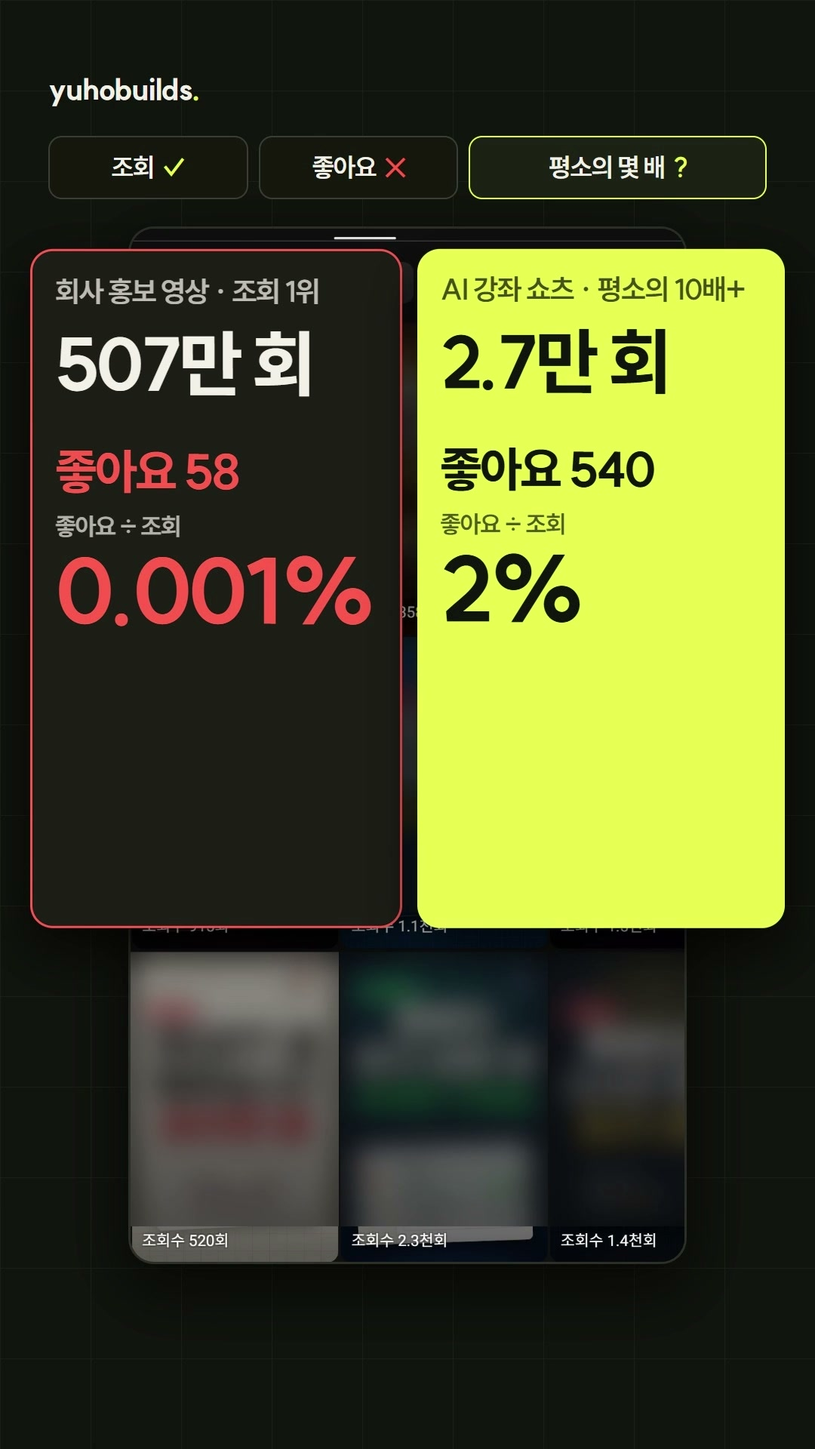
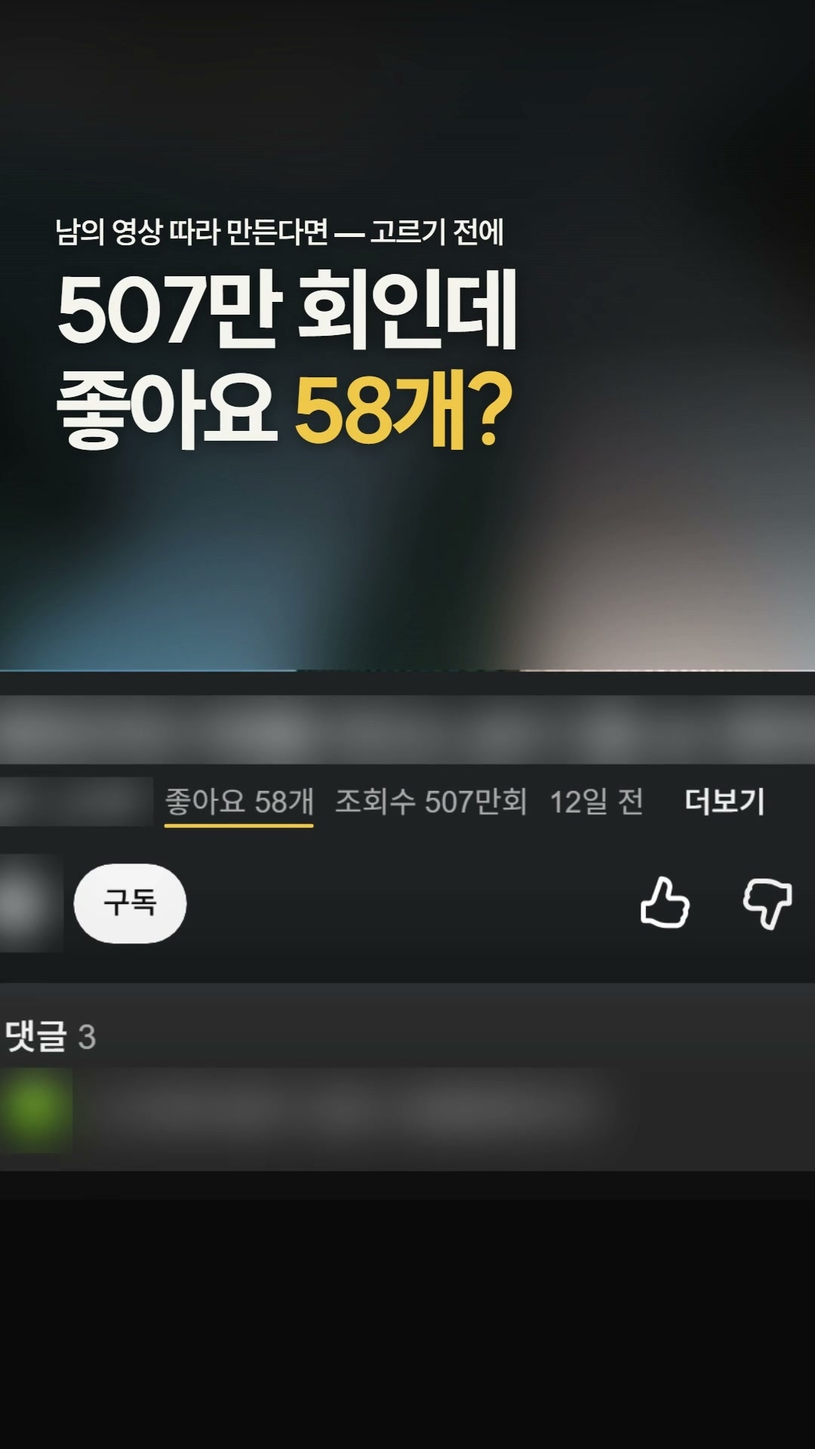
docs(Y30 다시 만들기 · 11-03 · 유호님 「이어서 해」): C 얼굴 진행컷 셋(Flow 72크레딧, 이마 주름 없음) · 화면 결(실제 화면 숫자 줄 · 빗금 막대 · 곱절 눈금 편차 점 · 버터 한 곳) · 끝 4초 저장할 한 장(튄 영상 고르는 3단계, 할 일 | 이 편에서) — 말 · 숫자 · 실제 화면 · 원본 뼈대는 그대로, 범수 11-02 줄 재사용. 나란히 다섯 항목 맞음(박자 75%) · 올리기 전 검사 고칠 것 0. 시험 v2 · v5 이해 4 · 3 · 4 · 저장 · 지난 편 다름, 재미 · 볼 이유

diff --git a/docs/마케팅/yuhobuilds_조회1위광고_20261102/기획.md b/docs/마케팅/yuhobuilds_조회1위광고_20261102/기획.md
@@ -1,61 +1,68 @@
-기획 · yuhobuilds · 인스타 @yuhobuilds · 유튜브 @yuhobuilds · X · 링크드인 · 스레드 · Y30 · 만든 날 11-02 · 슬롯 11-08(토) 21:00
+기획 · yuhobuilds · 인스타 @yuhobuilds · 유튜브 @yuhobuilds · X · 링크드인 · 스레드 · Y30 · 만든 날 11-02 · 다시 만든 날 11-03 · 슬롯 11-08(토) 21:00
 
-> **진행자 형식(만족 사례 S42) 첫 편.** 유호님 11-02 「지금 방식으로 유호빌드 컨텐츠 하나 만들어줄래」 — 손 세션 「yuhoubuilds 제작방식 검수」가 만든다. 얼굴은 11-01 고른 6:4 얼굴(Flow Omni 1.1 Flash 진행컷 셋), 목소리는 범수(상업용 Chris 길을 정할 때까지 — 장부 머리말 「얼굴 · 목소리」), 합성은 Remotion. 제작 폴더(얼굴 · 미디어 · 스크립트)는 git 밖 `synk-vendor/yuhobuilds-y30-20261102/`.
+> **11-03 다시 만듦(C 얼굴 · 화면 결 · 저장할 한 장).** 11-02 판(진행자 형식 첫 편)은 그 뒤 정해진 기준 셋에 어긋났다 — ① 얼굴이 11-01 6:4(눈가림 얼굴 시험 꼴찌, 11-02 밤 C 짧은 머리로 확정 · 11-03 이마 주름 없이) ② 화면이 11-03 「촌스럽다 · 미학을 고려 안 한 느낌」으로 금지된 결(라임 바탕에 오려 붙인 흉상, 기울인 폰 · 도장 · 칩, 카드뉴스 틀, 색이 켜지는 탭) ③ 끝이 질문 + 칩 둘이라 「저장할 한 장」이 아님. 유호님 11-03 「이어서 해」(앞 세션의 「Y30을 새 기준으로 다시 만들기」 권고). 내용 · 숫자 · 실제 화면(가린 판) · Fable 사실 검수를 거친 말 · 원본 뼈대 · 가져갈 요청문은 그대로 두고, 진행컷 · 화면 · 끝만 새로 했다. 제작 폴더는 git 밖 `synk-vendor/yuhobuilds-y30c-20261103/`(옛 판 `yuhobuilds-y30-20261102/`).
 
 ## 열 칸
 
 | 칸 | 내용 |
 |---|---|
-| **무엇으로 이기나** | **한 장면의 임팩트** — 조회 507만 회 영상의 좋아요가 58개(실제 모바일 화면 숫자 줄을 크게), 그리고 조회 2.7만 회 영상은 좋아요 540개. 큰 숫자가 큰 반응이 아니라는 게 한 화면에서 보인다. 핵심 칸 시안: `.tmp/수요스캔/2026-11-01/시안/Y30_핵심칸.jpg`(11-01 haiku 「높은 조회수는 광고로 키운 것」 — 같은 일). |
+| **무엇으로 이기나** | **한 장면의 임팩트** — 조회 507만 회 영상의 좋아요가 58개(실제 휴대폰 화면 숫자 줄을 0초부터 크게), 그리고 끝의 저장할 한 장(튄 영상 고르는 3단계 + 이 편에서 잰 값). 큰 숫자가 큰 반응이 아니라는 게 한 화면에서 보인다. |
 | 누구에게 | 남의 잘된 짧은 영상을 따라 만들려는 1인 사업자 · 크리에이터 입문자(AI로 콘텐츠를 만드는 사람). |
-| 남는 것 | 두 기준 — 「그 채널 평소의 몇 배인가」 · 「좋아요 ÷ 조회」. 손으로 재는 법과 코딩 AI에 붙일 요청문은 캡션 · synk.im/prompts. |
-| 근거 | 이 계정 최근 편 72시간(없으면 24시간): 「세션 공유」(10-17) 4,049회 · 저장 40 · 공유 11 · 팔로우 13 — 실화 + 가져갈 도구가 먹힘 / 「없는 후기 한 줄」(10-28) 24시간 1,187회 · 3초 유지 40.7% · 좋아요 0 / 「세션공유 4기가」(10-22) 129회 · 3초 유지 8.3% — 남이 모르는 내부 도구 말은 안 먹힘. **B** 원본 oxRD_YX2vEQ(AI 시스메이커 「클로드가 제 유튜브 채널을 통째로 돌립니다」, 10-18, 11-02 화면 2.7만 회 · 좋아요 540 · 댓글 600, 그 채널 최근 30편 중앙값 약 2,150회 → 평소의 11~13배) — 11-01에 읽은 댓글 위 40개가 모두 키워드 「유튜브」(가져갈 것을 바람). 같은 꼴 jKkrBdlpFgE(5.2천 · 4.6배). **실화** 장부 실화 창고 「10-29 · 11-01」 줄 — 조회순 수집 맨 위가 기업 홍보 영상(10-29 320만 · 좋아요 55, 11-02 다시 재니 507만 · 58), 「좋아요 ÷ 조회 0.3% 밑은 뺀다」 · 「그 채널 평소의 3배」 두 기준을 도구에 넣었다. |
-| 재미가 나는 초와 장면 | 원본: 0초 큰 약속(「클로드가 내 채널을 통째로 돌린다」 + 「지금 보시는 이 영상도요」), 15.4초 반전 「근데 제일 미친 건」(어두운 화면), 24.3초 키워드 댓글 카드. 우리: 0초 「507만 회인데 좋아요 58개?」, 7.1초 빨간 「58개」가 꽂힘(쿵), 10.05초 「광고 노출?」 도장, 15.4초 반전 뒤 실제 화면 「좋아요 540개 · 조회수 2.7만회」. |
-| 첫 2초 | 진행자 얼굴(아래 절반) 위 큰 글 「507만 회인데 / 좋아요 58개?」 + 말 「요즘 뜨는 영상을 찾아서, 따라 만들려고 했거든요」. |
-| 형식 | 원본 https://www.youtube.com/shorts/oxRD_YX2vEQ · 같은분야 · 위 탭이 하나씩 켜지는 단계 화면 → 어두운 반전 → 정리 카드 → 끝 카드. |
-| 댓글 놀이 | 없음 — 가져갈 두 기준은 영상 끝 카드와 캡션에 다 있다(장부 머리말 10-31 ④). 「여러분은 뭘로 고르세요?」는 약속하지 않는 물음으로만. |
-| 길이 | 27.4초(원본 28.5초의 96%). |
-| 함정 | ① 광고 집행을 확인한 자료는 없다 — 「광고로 노출된 조회 같아요」 · 화면 「광고 노출?」로 추정임을 남긴다(11-02 Fable 사실 검수) ② 회사 이름 · 제목 · 영상 그림 · 남의 댓글은 흐렸다(`synk-vendor/…/screens.py`), 회사 영상을 비웃지 않는다 ③ 507만은 60초 일반 동영상이라 「쇼츠」라 부르지 않는다 — 대본 · 화면 · 글 모두 「영상」 ④ 평소 조회 목록은 그 채널 최신순 그대로(골라 넣지 않음), 「약 2천 회」는 최근 30편 중앙값 ⑤ 같은 주 synkbrief B23(「~했더니 → 사실 반전 → 기준」)과 끝을 다르게 — 우리는 끝이 진행자가 시청자에게 되묻는 질문 「여러분이 따라 하려던 영상은… 평소의 몇 배였어요?」(v7부터 — 첫 시험에서 「~말고 ~하세요」 꼴이 지난 Y29와 같다고 짚힘). |
+| 남는 것 | **저장할 한 장(끝 4초) — 「튄 영상 고르는 3단계」**: ① 영상 아래에서 조회 · 좋아요 수 적기(이 편 2.7만 · 540) ② 그 채널 최근 30편 조회를 줄 세운 한가운데(중간값)(약 2천) ③ 평소의 3배 넘고 좋아요 ÷ 조회 0.3% 넘으면 따라 할 영상(13배 · 1.9%). 「3배 · 0.3%는 제가 고를 때 쓰는 기준」을 같이 적는다. 코딩 AI에 붙일 요청문은 캡션 · synk.im/prompts. |
+| 근거 | 이 계정 최근 편 72시간(없으면 24시간): 「세션 공유」(10-17) 4,049회 · 저장 40 · 공유 11 · 팔로우 13 — 실화 + 가져갈 도구가 먹힘 / 「없는 후기 한 줄」(10-28) 24시간 1,187회 · 3초 유지 40.7% · 좋아요 0 / 「세션공유 4기가」(10-22) 129회 · 3초 유지 8.3% — 남이 모르는 내부 도구 말은 안 먹힘. **B** 원본 oxRD_YX2vEQ(AI 시스메이커 「클로드가 제 유튜브 채널을 통째로 돌립니다」, 10-18, 11-02 화면 2.7만 회 · 좋아요 540 · 댓글 600, 그 채널 쇼츠 최근 30편 중간값 약 2,150회(11-03 다시 잰 값 1,890) → 평소의 11~15배) — 11-01에 읽은 댓글 위 40개가 모두 키워드 「유튜브」(가져갈 것을 바람). 같은 꼴 jKkrBdlpFgE(5.2천 · 4.6배). **실화** 장부 실화 창고 「10-29 · 11-01」 줄 — 조회순 수집 맨 위가 기업 홍보 영상(10-29 320만 · 좋아요 55, 11-02 다시 재니 507만 · 58), 「좋아요 ÷ 조회 0.3% 밑은 뺀다」 · 「그 채널 평소의 3배」 두 기준을 도구(`tools/수요스캔/뜨는원본.js`)에 넣었다. |
+| 재미가 나는 초와 장면 | 원본: 0초 큰 약속(「클로드가 내 채널을 통째로 돌린다」 + 「지금 보시는 이 영상도요」), 15.4초 반전 「근데 제일 미친 건」(어두운 화면), 24.3초 키워드 댓글 카드. 우리: 0초 실제 화면 숫자 줄 위 「507만 회인데 좋아요 58개?」, 4.4초 숫자 줄로 당김, 6.6초 빗금 막대 — 조회는 끝까지, 좋아요는 선 하나도 안 됨(쿵), 9.8초 「1위를 그대로 따라 했으면, 홍보 영상을 베낄 뻔」, 12초 진행자가 휴대폰을 내려다보다 눈을 듦 → 「진짜 뜬 영상은… 따로」, 16.2초 튄 영상 실제 화면 → 「이 영상이요」에 숫자 줄로 당겨 「좋아요 540개」 밑줄, 24.85초 저장할 한 장. |
+| 첫 2초 | 실제 휴대폰 화면(507만 회 홍보 영상, 회사 이름 · 영상 흐림)의 숫자 줄 「좋아요 58개 조회수 507만회」 + 맨 위 한 줄 「남의 영상 따라 만든다면 — 고르기 전에」 + 큰 글 「507만 회인데 / 좋아요 58개?」. 말은 진행자 첫 줄 「요즘 뜨는 영상을 찾아서,」가 먼저 깔리고 2.1초에 진행자 얼굴. 진행자로 시작하지 않는 것은 결과 먼저(제작절차 「synkbrief · yuhobuilds 편」 2) + 11-09 진행자 편의 첫 무대(진행자 + 위 그늘 글)와 다르게. |
+| 형식 | 원본 https://www.youtube.com/shorts/oxRD_YX2vEQ · 같은분야 · 단계 화면 → 어두운 반전 → 정리 → 끝 장치. |
+| 댓글 놀이 | 없음 — 가져갈 3단계는 영상 끝 한 장과 캡션에 다 있다(장부 머리말 10-31 ④). 「여러분은 뭘로 고르세요?」는 약속하지 않는 물음으로만. |
+| 길이 | 28.9초(원본 28.5초의 101%, 끝 한 장 4.05초). |
+| 함정 | ① 광고 집행을 확인한 자료는 없다 — 말 「광고로 노출된 조회 같아요」로 추정임을 남긴다(11-02 Fable 사실 검수). 근거는 화면에 「튄 영상은 약 52명에 좋아요 1개」로 견줌만(11-03 v5 시험 haiku · GPT 「왜 광고 조회인지」) ② 회사 이름 · 제목 · 영상 그림 · 남의 댓글은 흐렸다(`synk-vendor/yuhobuilds-y30-20261102/screens.py`), 회사 영상을 비웃지 않는다 ③ 507만은 60초 일반 동영상이라 「쇼츠」라 부르지 않는다 — 대본 · 화면 · 글 모두 「영상」 ④ 평소 조회 목록은 그 채널 최신순 그대로(골라 넣지 않음). 보이는 아홉 칸은 막 올린 편이라 대부분 1.5천 밑 — 머리 글 「약 2천 회」 아래에 「최근 30편 조회를 줄 세운 한가운데(중간값)」 · 「그 영상은 빼고 · 위 칸들은 막 올린 편」을 붙였다(11-03 Fable 사실 검수 두 차례 — 첫 차례 「1~2천」 권고는 둘째 차례에 「평소를 낮게 말해 13배를 부풀린다」로 되돌림) ⑤ 1단계 「영상 아래에서」 — 화면은 모바일 웹이라 숫자 줄에 좋아요가 있지만 앱은 👍 옆이라 「숫자 줄」이라 쓰지 않는다(11-03 Fable) ⑥ 같은 주 synkbrief B23(「~했더니 → 사실 반전 → 기준」)과 끝을 다르게 — 우리는 진행자가 되묻는 질문 뒤 저장할 한 장. |
 | **한 문장** | 「조회수 1위 말고, 그 채널 평소보다 튄 영상을 따라 하세요 — 좋아요가 얼마나 붙었는지도 보고」 |
 
 ## 원본 1:1
 
-원본 https://www.youtube.com/shorts/oxRD_YX2vEQ · 28.5초 · 13컷 · 박자 15번 · 갈래 같은분야 — 측정 `.tmp/오마주/yt_oxRD_YX2vEQ`(git 밖). 컷 · 박자는 칸.jpg · 첫3초.jpg로 눈 확정(오마주.json 「확정」). **아르곤 못 받음** — 11-02 17:18 보낸 뒤 영상 권리 동의 창이 떠 도구가 멈춤(유호님 손, 누르지 않음) → Claude 분석.
+원본 https://www.youtube.com/shorts/oxRD_YX2vEQ · 28.5초 · 13컷 · 박자 15번 · 갈래 같은분야 — 측정 `.tmp/오마주/yt_oxRD_YX2vEQ`(git 밖). 컷 · 박자는 칸.jpg · 첫3초.jpg로 눈 확정(오마주.json 「확정」). 아르곤 못 받음(11-02 영상 권리 동의 창) → Claude 분석. **11-03 판 나란히: 길이 101% · 칸 17(컷 12) · 첫 2초 박자 0 · 박자 16번 중 12번이 같은 순서로 0.6초 안(75%) · 뼈대 자리 — 다섯 항목 모두 맞음.**
 
-| 칸 | 원본 초 | 원본에서 이 칸이 하는 일(우리 말로) | 우리 화면 | 우리 말 |
+| 칸 | 원본 초 | 원본에서 이 칸이 하는 일(우리 말로) | 우리 화면(11-03 판) | 우리 말 |
 |---|---|---|---|---|
-| 1 | 0–2.6 | 큰 약속 글 + 「지금 보시는 이 영상」 — 끝까지 볼 이유 | 진행자 얼굴 + 큰 글 「507만 회인데 / 좋아요 58개?」 | 요즘 뜨는 영상을 찾아서, 따라 만들려고 했거든요. |
-| 2–4 | 2.6–7.2 | 하나가 아니라 팀 — 판을 펼침 | 위 탭 「조회 ✓」 → KT 영상 실제 휴대폰 화면 한 컷(회사 이름 · 그림 흐림) → 숫자 줄을 2.15배로 키운 띠, 「507만 회」 세기 | 조회순으로 모아 보니, 1위가 507만 회. |
-| 5–7 | 7.2–10.4 | 단계 하나씩(탭이 켜짐) | 탭 「좋아요 ✕」 · 조회 막대 vs 좋아요 실선 · 빨간 「58개」 쿵 · 숫자 줄 띠(좋아요 밑줄) | 그런데 좋아요는, 58개. |
-| 8–9 | 10.4–15.4 | 단계 계속 | 「좋아요 ÷ 조회 0.001% · 회사 홍보 영상」 카드 + 「광고 노출?」 도장 | 회사 홍보 영상이에요. 이 비율이면, 광고로 노출된 조회 같아요. |
-| 10–11 | 15.4–17.7 | 반전 — 어두운 화면 「근데 제일 미친 건」 | (우리는 12.6초) 검은 화면 · 진행자 몸을 앞으로 · 큰 노란 글 「진짜는」 → 14.48초 「따로.」에서 바탕이 노랑으로 뒤집힘(원본 반전 자리) | 진짜 뜬 영상은… 따로 있었어요. |
-| 12–13 | 17.7–22.1 | 반전의 내용(실제 화면) | 탭 「평소의 몇 배 ?」 · 그 채널 쇼츠 목록 실제 화면(썸네일 흐림, 조회만) 「이 채널 평소 약 2천 회」 → 튄 편 실제 화면 · 숫자 줄 띠 「좋아요 540개 · 조회수 2.7만회」 · 「평소의 10배+」 | 평소보다 열 배 넘게 뛴, 이 영상이요. |
-| 14 | 22.1–24.3 | 정리본 | 「이제 두 개만.」 + 카드 ① 그 채널 평소의 몇 배? ② 좋아요 ÷ 조회 | 그래서 이제 두 개만 봐요. 그 채널 평소의 몇 배인지, 좋아요가 얼마나 붙었는지. |
-| 15–16 | 24.3–28.5 | 끝 장치(좋아요 · 댓글 키워드) | (우리는 23.4초) 진행자 얼굴 + 「평소의 몇 배였어요?」, 25.3초에 두 기준 칩이 큰 글 자리로 | 여러분이 따라 하려던 영상은… 평소의 몇 배였어요? |
+| 1 | 0–2.6 | 큰 약속 글 + 「지금 보시는 이 영상」 — 끝까지 볼 이유 | 실제 화면 숫자 줄 + 「남의 영상 따라 만든다면 — 고르기 전에」 + 「507만 회인데 / 좋아요 58개?」(58개 버터) → 2.1초 진행자 「뜨는 영상, / 따라 만들려다」 | 요즘 뜨는 영상을 찾아서, 따라 만들려고 했거든요. |
+| 2–4 | 2.6–7.2 | 판을 펼침 | 3초 같은 실제 화면 「조회순 1위, / 507만 회」 → 4.4초 숫자 줄로 당김 → 5.7초 빗금 막대(조회 507만 끝까지 · 좋아요 58은 선 하나) 「그런데 좋아요는 / 58개」 | 조회순으로 모아 보니, 1위가 507만 회. 그런데 좋아요는, 58개. |
+| 5–9 | 7.2–15.4 | 단계 하나씩 | 7.56초 흐린 화면 위 「회사 / 홍보 영상」 · 좋아요 ÷ 조회 0.001% · 약 9만 명이 봐야 좋아요 1개 · 튄 영상은 약 52명에 1개 → 9.76초 「1위를 그대로 / 따라 했으면, / 홍보 영상을 / 베낄 뻔」(전에 손해 한 줄) | 회사 홍보 영상이에요. 이 비율이면, 광고로 노출된 조회 같아요. |
+| 10–11 | 15.4–17.7 | 반전 — 어두운 화면 「근데 제일 미친 건」 | (우리는 12초) 진행자를 가까이 — 휴대폰을 내려다보다 멈추고 눈을 듦, 「진짜 뜬 영상은,」 → 「따로 있었다」 | 진짜 뜬 영상은… 따로 있었어요. |
+| 12–13 | 17.7–22.1 | 반전의 내용(실제 화면) | 15.3초 그 채널 쇼츠 목록 실제 화면 「이 채널 평소, / 약 2천 회」(최근 30편 중간값, 그 영상은 빼고) → 16.2초 튄 영상 실제 화면(제목 · 채널 출처 그대로) 「2천 회에서 / 2.7만 회로」 → 「이 영상이요」에 숫자 줄로 당겨 「좋아요 540개」 밑줄 | 평소보다 열 배 넘게 뛴, 이 영상이요. |
+| 14 | 22.1–24.3 | 정리본 | 17.6초 「이제 / 두 개만 본다」 + 조회 1위 507만 회 · 좋아요 58 / 튄 영상 2.7만 회 · 좋아요 540 나란히 → 19초 「평소의 몇 배, / 좋아요 몇 %」 편차 점(평소 → 약 13배, 곱절 눈금) · 빗금 막대(1.9% · 0.001%) | 그래서 이제 두 개만 봐요. 그 채널 평소의 몇 배인지, 좋아요가 얼마나 붙었는지. |
+| 15–16 | 24.3–28.5 | 끝 장치(좋아요 · 댓글 키워드) | 22초 진행자(조금 가까이) 「따라 하려던 영상, / 평소의 몇 배?」 → 24.85초 저장할 한 장 — 흐린 튄 영상 화면 위 「저장해 두고, 따라 하기 전에 / 튄 영상 고르는 3단계」, 할 일 | 이 편에서 두 칸 표 | 여러분이 따라 하려던 영상은, 평소의 몇 배였어요? |
 
-**다르게(뼈대 밖 우리 판단):** 원본에는 얼굴이 없다 — 진행자 형식(S42)대로 처음 · 반전 · 끝 세 줄을 유호 진행자가 말하고, 나머지는 실제 화면 + 모션(장부 머리말 「진행자 형식과 오마주 · 실제 화면 합치기」). 반전은 원본 15.4초보다 이른 12.6초(앞 단계가 셋이라 원본의 다섯 단계보다 짧음) — 원본 15.4초 자리에서는 실제 화면으로 바뀐다.
+**다르게(뼈대 밖 우리 판단):** 원본에는 얼굴이 없다 — 진행자 형식대로 처음 · 반전 · 끝 세 줄을 유호 진행자가 말하고, 나머지는 실제 화면 + 모션(장부 머리말 「진행자 형식과 오마주 · 실제 화면 합치기」). 반전은 원본 15.4초보다 이른 12초(앞 단계가 셋이라) — 원본 15.4초 자리에서는 실제 화면으로 바뀐다. 끝 장치는 키워드 댓글 대신 저장할 한 장.
 
 ## 만들기 기록
 
-- **목소리:** 범수 두 덩이(a 108자 · b 108자) 한 번에 + 반전 얼굴 줄 c(20자, 진행컷이 「영상은 … 따로」 사이 1.3초를 쉬어 목소리에도 쉼) — 받아쓰기가 원고와 같음. 얼굴 줄 셋(f1 · f5 · f8)은 실제 쉼 자리(소리 크기)에서 잘라 0.3~0.4초 쉼을 넣고 f1만 0.92배.
-- **진행컷:** Flow Omni 1.1 Flash 720p · 8초 · x1 셋(36크레딧, 다시 뽑기 0) — 처음 · 중간 · 끝 얼굴 모두 승인 얼굴과 같음(`flow/source-contact.jpg`), 01은 4.1초 뒤 「만들려고 했거든요」를 되풀이해 그 뒤는 안 씀. Whisper가 첫 낱말을 0초로 잡아(실제 말은 0.16~1.12초 시작) 소리 덩어리로 맞춤 — 말하는 구간 1.12~1.32배, 입 닫힌 쉼만 1.47~2.23배.
-- **인물 분리:** GPU가 다른 세션의 LoRA 학습(3,200단계, 19시 반쯤 끝)으로 차 있어 SAM3 대신 CPU rembg `u2net_human_seg`(앞뒤 프레임 평균)로 첫 렌더 — SAM3 CPU는 프레임당 29초라 못 씀. 세 차례 시험과 마감이 이 분리로 끝나 SAM3로 바꿔 끼우지 않았다(바꾸면 얼굴 가장자리가 달라져 다시 봐야 함) — 다음 편부터는 GPU 차례를 먼저 잡는다.
-- **실제 화면:** ego 캡처가 시간 초과(창 가림)라 헤드리스 크롬 휴대폰 크기(430 · 배율 2.51)로 공개 페이지를 찍음.
-- **음성 · 끝 줄 바꿈(v7):** 첫 시험에서 haiku가 끝 「1등 말고, 튄 걸 따라 하세요」를 지난 Y29 「물건은 AI 말고 사장님이 고르세요」와 같은 「~말고 ~하세요」 꼴로 짚어, 끝을 질문 「여러분이 따라 하려던 영상은… 평소의 몇 배였어요?」로 바꿈(범수 d 30자 · 진행컷 04는 「몇 / 배였어요」 사이에서 쉬어 2.1배로 어긋나 버리고, 「한숨에 · 3초 안에」로 다시 뽑은 05를 씀 — Flow 모두 60크레딧 · 다섯 컷 중 버림 1).
-- **흰 테:** 볼 이유 심사관이 머리 둘레 흰 테(임시 분리 도구의 누끼 자국)를 짚어 알파를 2px 안으로 줄임(`masks_raw`는 남김).
-- **마감:** v11 — 자막을 앱 아래 글자 자리(1428px) 위로(얼굴 장면은 머리 위, 다른 장면은 왼쪽 690px 폭), 얼굴은 470px로 올림, 숫자 띠 1.55배 · 왼쪽 40px(오른쪽 단추 자리 밖). 영상 10Mbps 고정으로 다시 담고 `tools/음량마감.mjs`로 −14.5 LUFS · −1.5 dBFS.
+### 11-03 다시 만든 판(지금 걸린 판)
+
+- **진행컷(C 얼굴):** Flow Omni 1.1 Flash 720p · 8초 · x1, 세 줄 × 두 판 = 6번(72크레딧, 구독 몫 · 힉스필드 0). 지시문은 `facePromptY` + 윗얼굴 가만히(이마 주름 없이) + 「쉼 없이 한숨에」(도우미 `C:/Users/q1212/ego/yuhobuilds-y30c-20261103/`). 여섯 판 모두 처음 · 중간 · 끝 얼굴이 승인 사진 C와 같고 이마는 초마다 잘라 봐도 매끈. 쓴 판: 처음 intro-b(intro-a는 4초 뒤 「했거든요」 되풀이) · 반전 twist-b(내려다봄 → 멈춤 → 눈 듦) · 끝 end-a. Flow 입력창이 다른 세션이 쓴 「프레임」 모드로 남아 소재 단추가 없어 첫 접수가 멈췄다 — 설정 메뉴의 `span.toggle-text` 「소재」로 돌린 뒤 접수(창이 최소화면 innerText가 비어 textContent로 찾음).
+- **목소리:** 범수 11-02 줄 그대로(새로 사지 않음 — 말이 같아 Fable 사실 검수 그대로). 진행컷이 쉼표 자리에서 쉬어(「찾아서, | 따라」 0.36초 · 「영상은 | 따로」 0.94초) 목소리 쪽에 0.3초 · 0.62초 쉼을 넣고 소리 덩어리로 맞춤(현장노트 「Flow 진행컷을 다른 목소리에 입 맞출 때」) — 말하는 구간 0.97~1.23배, 쉼 1.2~1.52배.
+- **화면 결(장부 머리말 「화면 결」):** 원래 방 그대로(오려 붙이지 않음, 머리 위는 같은 장면을 뒤집어 흐리게) · 검정 · 흰 + 버터 한 곳(좋아요 숫자와 넘는 자리) · 큰 글자가 곧 말 · 줄 단위 28px 올림 · 박 위 컷 + 1.035배 당김 · SUIT 하나. 정보 그림은 그래프 문법대로 — 0부터 세는 양(조회 · 좋아요, 좋아요 ÷ 조회)은 빗금 막대, 평소 대비 배수는 곱절 눈금 편차 점. 진행자 세 컷은 거리를 다르게(처음 1.0 · 반전 1.24 · 끝 1.1).
+- **배경음:** 11-02 판과 같은 곡(보유곡 `퀴즈120_테크팝_f4f3682d.wav` 8초부터 — 소리 지문으로 찾음)을 28.9초로 다시 자름. `tools/음량마감.mjs`로 −14.6 LUFS · −1.4 dBFS.
+- **판 거듭:** v2(첫 렌더) → v5(시험 v2 · 맹검 · 나란히 지적 반영 — 가운데 값 → 중간값, 광고 노출 뜻, 18~22초 그림 덜어 냄, 튄 영상을 숫자 줄로 크게, 끝 한 장을 두 칸 표로, 첫 2초 컷 없음 · 원본 박자 자리로 컷 옮김) → v6(시험 v5에서 두 시험관이 같이 짚은 것: 중간값 뜻 · 광고 조회 근거 · 3배 · 0.3% 근거 · 작은 글씨 · 7.6~12초 한 구성 정체, Fable 맹검의 잘린 크롭 두 곳) → **v7(최종 — Fable 마지막 사실 검수: 평소 「약 2천 회」 · 「그 영상은 빼고」. 「홍보 영상을 베낄 뻔」을 추정으로 바꾸자는 P2는 받지 않음 — 회사 홍보 영상인 것은 사실(말에도 있음)이고 추정은 「광고로 노출」 쪽이라)**. 제작 코드 `synk-vendor/yuhobuilds-y30c-20261103/src/videos.tsx`(판마다 `videos_v*_보관.txt`).
+
+### 11-02 판(교체됨)
+
+- 6:4 얼굴 진행컷 셋(Flow 60크레딧) · 범수 a · b · c · d · CPU rembg로 인물 분리 · 라임 · 코랄 카드 틀 · 끝은 질문 + 칩 둘, v11 27.4초. 시험은 아래 표 v6~v9, 판정 「관문 못 넘음(재미 · 볼 이유)」. 그 영상은 공용 작업본 편 폴더 `최종_1102판.mp4`로 남겼다(git 밖).
 
 ## 시험
 
-시험관: 이해 sonnet · haiku, 볼 이유 opus(덧붙여 「AI 진행자 · AI 채널처럼 보여서 넘기나」) — 판마다 새로, 기획 · 원본은 주지 않음. GPT 시험관은 두 키 모두 API 크레딧 바닥(429)이라 못 받음(돈 드는 길로 돌리지 않음).
+시험관: 이해 sonnet · haiku · GPT(구독 Codex — `tools/GPT시험관.mjs`), 볼 이유 opus(덧붙여 「AI 진행자로 넘기나」 · 임팩트 · 저장할 장면) — 판마다 새로, 기획 · 원본은 주지 않음. 지난 편 비교는 11-06 「홈페이지 다 똑같다」 · 11-07 「천천히 옆으로」.
 
 | 판 | 답 1(한 문장과 같나) | 이해 | 재미 | 넘김 | 첫 3초 | 저장 | 지난 편 | 볼 이유 | AI 진행자로 넘기나 |
 |---|---|---|---|---|---|---|---|---|---|
-| v6 | 둘 다 같음 | 4 · 3 | 3 · 3 | 끝까지 · 18~22초 | 계속 봄 둘 | 저장 둘 | 달라 · **같아(끝 「~말고 ~하세요」)** | 3 · 슬롭 아님(경계) | 예(매끈한 피부 · 머리 흰 테) |
-| v8 | 둘 다 같음 | 4 · 3 | 3 · 3 | 14초 · 끝까지 | 계속 봄 둘 | 저장 둘 | 달라 둘 | 3 · 아님 | 예(0 · 14 · 26초) |
-| v9 | 둘 다 같음 | 4 · 3 | 3 · 3 | 끝까지 둘 | 계속 봄 둘 | 저장 둘 | 달라 둘 | 3 · 아님 | 예(0 · 26 · 27초) |
+| 11-02 v6 | 둘 다 같음 | 4 · 3 | 3 · 3 | 끝까지 · 18~22초 | 계속 봄 둘 | 저장 둘 | 달라 · **같아** | 3 · 아님 | 예 |
+| 11-02 v8 | 둘 다 같음 | 4 · 3 | 3 · 3 | 14초 · 끝까지 | 계속 봄 둘 | 저장 둘 | 달라 둘 | 3 · 아님 | 예 |
+| 11-02 v9 | 둘 다 같음 | 4 · 3 | 3 · 3 | 끝까지 둘 | 계속 봄 둘 | 저장 둘 | 달라 둘 | 3 · 아님 | 예 |
+| **11-03 v2** | 셋 다 같음 | 4 · 3 · GPT 4 | 3 · 3 · GPT 3 | 끝까지 둘 | 계속 봄 둘 | 저장 둘(GPT 안 함) | 달라 · **같아(haiku — 끝 카드 · 말 순서)** · GPT 달라 | 3 · 아님 · 임팩트 2 · 저장할 장면 있음(끝 한 장) | 예(1.5 · 12 · 24초 같은 구도) |
+| **11-03 v5** | 셋 다 같음 | 4 · 3 · GPT 4 | 3 · 3 · GPT 3 | 6~8초 · 22초 뒤 | 계속 봄 둘 | 저장 셋 | 달라 셋 | 3 · 아님 · 임팩트 2 · 저장할 장면 있음 | 예(2.5 · 12초 — 말 없는 미소) |
 
-- **같이 짚어 고친 것:** v6 「광고 노출?」 근거 없음(sonnet · haiku) → 카드에 「9만 명이 봐야 ♥ 1개」 · v6 「약 2천 회」가 무엇인지 → 「이 채널 다른 쇼츠 · 보통 2천 회 안팎」 · v9 위 탭 「평소의 몇 배」 뜻이 16초에야(sonnet · haiku) → 아직 안 온 탭은 감춤(v10 — 장면 · 말은 그대로라 다시 시험 안 함).
-- **한 시험관이 짚어 고친 것:** 끝 꼴(haiku v6) · 18~22초 빈 화면(haiku v6 · opus v6) → 빈 자리 01 · 02 + 실제 숫자 예 · 「진짜 뜬 영상」 보상이 약함(opus v6 · v8) → 507만 · 58 대 2.7만 · 540을 나란히 크게, 튄 편 제목 · 채널 이름은 출처로 그대로 · 「2천 → 2.7만」이 부등호로 보임(haiku v8) → 「2천 회에서 2.7만 회로」.
-- **못 고친 것:** 재미 3 · 3 · 볼 이유 3 — 세 판 내내 「쓸모 있는 기준이지만 저장만 하고 여운 · 놀라움은 없다」. opus v9는 20~22초 「이제 두 개만」 정리를 빼고 비교 판 다음 「당신의 영상 숫자를 넣어 보라」 한 장면으로 끝내자고 했지만, 정리본 칸은 원본 뼈대(22.1~24.3초)라 두었다. 「광고 노출」 근거는 광고 집행을 확인한 자료가 없어 더 단정하지 않는다(haiku v9 3점의 까닭). **AI 진행자로 읽힘** — 세 판 모두 「예」(아이돌처럼 매끈한 얼굴, 오려 붙인 듯함). 고른 얼굴(11-01)과 형식(S42)의 문제라 이 편에서 바꾸지 않고 유호님께 보고한다.
-- **판정:** 관문 못 넘음(재미 · 볼 이유) — 제작절차 「매일 한 편」 2대로 가장 나은 판(v11)을 「완성(관문 못 넘음)」으로 둔다. 원본과 나란히는 v11 다섯 항목 모두 통과(길이 96% · 칸 18 · 첫 2초 · 박자 65% · 뼈대 자리).
+**맹검 미학 심사(Fable, 어느 쪽이 새 판인지 숨김):** v2 대 11-02 판 — 새 판 「차이 크다」(11-02 판은 「라임 상자 속 오려 붙인 흉상 · 기울인 폰 · 도장 · 하트 · 알약 칩 — 스타트업 카드뉴스 템플릿」). v5 대 11-02 판(순서를 바꿔 다시) — 새 판 「차이 크다」, 끝 장면도 새 판이 저장할 만함. 새 판에서 짚은 것(4.9초 크롭이 「좋아요」를 자름 · 7.9~10.9초 같은 구성 정체 · 16.9초 튄 영상 제목 잘림 · 작은 설명 글)은 v6 · v7에서 고쳤다(글 · 크롭만이라 다시 시험하지 않음 — 제작절차 「다시 시험은 짚은 장면 · 순서 · 말을 바꾼 판만」).
+
+- **같이 짚어 고친 것:** v2 「가운데 값」(sonnet · haiku) → 「중간값」, v5 「중간값은 어떻게?」(sonnet · GPT) → 「최근 30편 조회를 줄 세운 한가운데(중간값)」 · 「광고 조회인지 왜」(haiku · GPT, v2 · v5) → 「튄 영상은 약 52명에 좋아요 1개」로 견줌 · 「3배 · 0.3% 근거」(haiku · GPT) → 「3배 · 0.3%는 제가 고를 때 쓰는 기준이에요」 · 18~22초 그림이 빽빽함(sonnet · haiku v2) → 0.5배 눈금을 빼고 글자를 키우고 둘째 줄은 말에 맞춰 천천히 · 작은 글씨(sonnet · haiku v5) → 눈금 · 표 머리 · 각주를 키움 · 튄 영상이 흐리게만 보임(opus v2 · GPT v2 「이 영상이 어느 것인지」) → 「이 영상이요」에 숫자 줄로 당겨 「좋아요 540개」 밑줄.
+- **한 시험관이 짚어 고친 것:** haiku v2 「끝 카드가 지난 편 체크 목록과 같음」 → 할 일 | 이 편에서 두 칸 표(v5 셋 다 「달라 보임」) · opus v5 「진행자가 같은 자세 반복」 → 세 컷 거리를 다르게 · sonnet v5 「6~8초 막대 장면 단조」 → 막대를 크게.
+- **못 고친 것:** 재미 3 · 3 · 3, 볼 이유 3, 임팩트 2 — 두 차례 모두 「숫자 반전은 신선하지만 뒤는 정보 정리 · 저장은 해도 다시 보진 않음」. 11-02 판과 같은 자리라 소재 몫으로 본다(장부 머리말 「임팩트는 겉이 아니라 사건에서」 — 507만 · 58은 남의 영상 숫자이고 우리가 실제로 잃은 것은 없다). **AI 진행자로 읽힘** — opus 두 차례 모두 「예」(C 얼굴 · 흰 셔츠 · 마이크 · 같은 방). 거리를 바꿨지만 같은 진행컷 꼴이라 다음 진행자 칸에서 자세 · 장소가 다른 컷을 섞는 후보(11-09 기획 v8과 같은 숙제).
+- **판정:** 관문 못 넘음(재미 · 볼 이유) — 제작절차 「매일 한 편」 2대로 가장 나은 판(v7)을 「완성(관문 못 넘음)」으로 둔다. 맹검 미학 심사 두 번 모두 새 판이 지금 걸린 11-02 판보다 「차이 크게」 나아 11-08 21:00 예약을 새 판으로 바꿨다. 원본과 나란히 다섯 항목 모두 맞음. 시험 재료는 git 밖 `synk-vendor/yuhobuilds-y30c-20261103/시험/v2 · v5`, 맹검 묶음 `맹검/`.

diff --git a/docs/마케팅/기획장부/yuhobuilds.md b/docs/마케팅/기획장부/yuhobuilds.md
@@ -212,7 +212,7 @@
 
 | 번호 | 기획 | 갈래 | 상태 | 편 폴더 | 근거 · 첫 2초 · 댓글 놀이 · 조건 |
 |---|---|---|---|---|---|
-| Y30 | 남의 쇼츠, 조회 1위를 따라 했더니 — 320만 회에 좋아요 55, 광고였다 · 「그 채널 평소의 몇 배」로 고른다 | 우리 실화 · 권위 · 근거 B · 원본 같은분야 | 완성(관문 못 넘음 — 재미 · 볼 이유)(11-02 손 세션 · 진행자 형식(S42) 첫 편 · 유호님 「지금 방식으로 유호빌드 컨텐츠 하나 만들어줄래」 — 게시 제목 「남의 영상, 조회 1위를 따라 하려다 — 507만 회에 좋아요 58개, 「평소의 몇 배」로 고른다」 · 슬롯 11-08(토) 21:00 · 27.4초 · 판 다섯 + 티스토리(틱톡 쉼). 진행컷 Flow 다섯(60크레딧, 버림 1) · 범수 · 실제 화면은 헤드리스 크롬. 원본 oxRD_YX2vEQ 1:1 — 나란히 다섯 항목 통과(박자 65%). 시험 세 판(v6 · v8 · v9) 답 1 여섯 번 다 한 문장과 같고 이해 4 · 3 · 끝까지 · 저장 · 달라 보임, 넘지 못한 것은 재미 3 · 3 · 볼 이유 3. 볼 이유 심사관은 세 판 모두 「AI 진행자로 읽혀 넘기고 싶다」. 가져갈 것 synk.im/prompts `outlier-not-top-views` — 편 폴더 기획.md) | `docs/마케팅/yuhobuilds_조회1위광고_20261102` | **무엇으로 이기나:** 한 장면의 임팩트 — 「지금 뜨는 영상」 맨 위 320만 회 영상의 좋아요가 55개(0.002%) — 광고비로 키운 편 → 「좋아요 ÷ 조회 · 그 채널 평소의 몇 배」로 다시 보니 진짜 튄 편은 따로 있었다. **원본** https://www.youtube.com/shorts/oxRD_YX2vEQ · 같은분야 · AI 시스메이커 「클로드가 제 유튜브 채널을 통째로 돌립니다」 2.6만 · 평소의 11배 · 10-18 · 29초 · 댓글 557(11-01에 읽은 위 40개가 모두 키워드 「유튜브」 — 가져갈 것을 바람, 근거 B) · 같은 꼴 jKkrBdlpFgE 「클로드한테 100% 인스타를 맡겼습니다」 5.2천 · 4.6배 · 댓글 77. **실화** 위 실화 창고 「10-29 · 11-01」 줄. **가져갈 것:** 「조회 ÷ 그 채널 평소 조회, 좋아요 ÷ 조회」 두 줄 기준(손으로 재는 법 + 코딩 AI 요청문 — synk.im/prompts). **한 문장(관문 판)** 「조회수 말고 '평소의 몇 배'로 고른다」. 첫 2초 시안 `C:/Users/q1212/Documents/SYNK-appsscript/.tmp/수요스캔/2026-11-01/시안/Y30_첫2초.jpg`(「남의 쇼츠, 조회 1위를 따라 했더니」 + 격자 화면 — 관문: 지은 그림) · 핵심 칸 `…/시안/Y30_핵심칸.jpg` — haiku 「휴대폰 영상 화면을 돋보기로 확대 — 재생 막대와 하트, 아래 글 「조회 320만 · 좋아요 55 = 광고로 키운 영상」 / 높은 조회수는 광고로 키운 것」(같은 일 — 다만 숫자 대조는 그림이 아니라 아래 글이 함). **관문 조건(11-01):** 전부 실제 화면(유튜브 영상의 공개 숫자 · 채널 영상 목록 — 기업 이름 · 썸네일 속 사람은 가림), 돋보기 · 손 · 남의 영상 속 사람 없음 · 11-06 Y29가 「같은 틀 넷 → 한 줄 → 다른 화면」 전후라 전후 표 대신 「한 편 수사」 꼴(조회 → 좋아요 → 채널 평소 → 판정) · 숫자는 320만 · 55 · 「평소의 3배」 셋까지 · 내부 표 · 「112편 · 8편」 같은 우리 도구 말은 빼고 공개 숫자로(반례 「세션 공유 4GB」) · 요청문은 캡션. **함정:** 같은 주 synkbrief B23과 「~했더니 → 사실 반전 → 기준」 꼴이 겹치지 않게 끝을 다르게, 광고 편을 조롱하지 않는다 |
+| Y30 | 남의 쇼츠, 조회 1위를 따라 했더니 — 320만 회에 좋아요 55, 광고였다 · 「그 채널 평소의 몇 배」로 고른다 | 우리 실화 · 권위 · 근거 B · 원본 같은분야 | 완성(관문 못 넘음 — 재미 · 볼 이유)(**11-03 다시 만듦 — C 얼굴 · 화면 결 · 저장할 한 장, 유호님 「이어서 해」:** 진행컷 C 얼굴 Flow 여섯(72크레딧, 쓴 셋 · 이마 주름 없음) · 범수 11-02 줄 그대로 · 첫 장면은 실제 화면 숫자 줄 · 빗금 막대 · 곱절 눈금 편차 점 · 끝 4초 「튄 영상 고르는 3단계」 두 칸 표(할 일 | 이 편에서) · 28.9초. 원본과 나란히 다섯 항목 맞음(박자 75%). 시험 두 차례(v2 · v5) 이해 4 · 3 · GPT 4 · 저장 · 지난 편과 다름, 재미 3 · 3 · 3 · 볼 이유 3 그대로 · 「AI 진행자로 읽힘」 그대로. 맹검 미학 심사(Fable) 두 차례 모두 새 판이 11-02 판보다 「차이 크다」 → 11-08 21:00 예약을 새 판으로 바꿈. 11-02 판은 `최종_1102판.mp4`(git 밖). ‖ 11-02 손 세션 · 진행자 형식(S42) 첫 편 · 유호님 「지금 방식으로 유호빌드 컨텐츠 하나 만들어줄래」 — 게시 제목 「남의 영상, 조회 1위를 따라 하려다 — 507만 회에 좋아요 58개, 「평소의 몇 배」로 고른다」 · 슬롯 11-08(토) 21:00 · 27.4초 · 판 다섯 + 티스토리(틱톡 쉼). 진행컷 Flow 다섯(60크레딧, 버림 1) · 범수 · 실제 화면은 헤드리스 크롬. 원본 oxRD_YX2vEQ 1:1 — 나란히 다섯 항목 통과(박자 65%). 시험 세 판(v6 · v8 · v9) 답 1 여섯 번 다 한 문장과 같고 이해 4 · 3 · 끝까지 · 저장 · 달라 보임, 넘지 못한 것은 재미 3 · 3 · 볼 이유 3. 볼 이유 심사관은 세 판 모두 「AI 진행자로 읽혀 넘기고 싶다」. 가져갈 것 synk.im/prompts `outlier-not-top-views` — 편 폴더 기획.md) | `docs/마케팅/yuhobuilds_조회1위광고_20261102` | **무엇으로 이기나:** 한 장면의 임팩트 — 「지금 뜨는 영상」 맨 위 320만 회 영상의 좋아요가 55개(0.002%) — 광고비로 키운 편 → 「좋아요 ÷ 조회 · 그 채널 평소의 몇 배」로 다시 보니 진짜 튄 편은 따로 있었다. **원본** https://www.youtube.com/shorts/oxRD_YX2vEQ · 같은분야 · AI 시스메이커 「클로드가 제 유튜브 채널을 통째로 돌립니다」 2.6만 · 평소의 11배 · 10-18 · 29초 · 댓글 557(11-01에 읽은 위 40개가 모두 키워드 「유튜브」 — 가져갈 것을 바람, 근거 B) · 같은 꼴 jKkrBdlpFgE 「클로드한테 100% 인스타를 맡겼습니다」 5.2천 · 4.6배 · 댓글 77. **실화** 위 실화 창고 「10-29 · 11-01」 줄. **가져갈 것:** 「조회 ÷ 그 채널 평소 조회, 좋아요 ÷ 조회」 두 줄 기준(손으로 재는 법 + 코딩 AI 요청문 — synk.im/prompts). **한 문장(관문 판)** 「조회수 말고 '평소의 몇 배'로 고른다」. 첫 2초 시안 `C:/Users/q1212/Documents/SYNK-appsscript/.tmp/수요스캔/2026-11-01/시안/Y30_첫2초.jpg`(「남의 쇼츠, 조회 1위를 따라 했더니」 + 격자 화면 — 관문: 지은 그림) · 핵심 칸 `…/시안/Y30_핵심칸.jpg` — haiku 「휴대폰 영상 화면을 돋보기로 확대 — 재생 막대와 하트, 아래 글 「조회 320만 · 좋아요 55 = 광고로 키운 영상」 / 높은 조회수는 광고로 키운 것」(같은 일 — 다만 숫자 대조는 그림이 아니라 아래 글이 함). **관문 조건(11-01):** 전부 실제 화면(유튜브 영상의 공개 숫자 · 채널 영상 목록 — 기업 이름 · 썸네일 속 사람은 가림), 돋보기 · 손 · 남의 영상 속 사람 없음 · 11-06 Y29가 「같은 틀 넷 → 한 줄 → 다른 화면」 전후라 전후 표 대신 「한 편 수사」 꼴(조회 → 좋아요 → 채널 평소 → 판정) · 숫자는 320만 · 55 · 「평소의 3배」 셋까지 · 내부 표 · 「112편 · 8편」 같은 우리 도구 말은 빼고 공개 숫자로(반례 「세션 공유 4GB」) · 요청문은 캡션. **함정:** 같은 주 synkbrief B23과 「~했더니 → 사실 반전 → 기준」 꼴이 겹치지 않게 끝을 다르게, 광고 편을 조롱하지 않는다 |
 
 ## 2026-11-02 · 매일 수요 스캔 순위
 

diff --git a/docs/마케팅/기획장부/이해시험_기록.md b/docs/마케팅/기획장부/이해시험_기록.md
@@ -8,6 +8,7 @@
 
 | 날짜 | 브랜드 | 편 | 점수 | 넘긴 자리 · 걸린 까닭 | 다음 |
 |---|---|---|---|---|---|
+| 11-03 | yuhobuilds | Y30 「조회 1위를 따라 하려다 — 507만 회에 좋아요 58개」 다시 만든 판(C 얼굴 · 화면 결 · 저장할 한 장, 오마주 같은분야 oxRD_YX2vEQ · 나란히 맞음) — **관문 못 넘음, 걸린 예약을 새 판으로 바꿈** | 두 판: 이해 4 · 3 · 4(GPT) 그대로, 재미 3 · 3 · 3, 볼 이유 3 · 아님 · 임팩트 2, 저장 셋 · 지난 편 다름 셋(v5) | 답 1 다 맞음 · 끝까지 · 첫 3초 계속 봄. 걸린 것은 재미 · 볼 이유(11-02 판과 같은 자리 — 「숫자 반전은 신선하지만 뒤는 정보 정리」) · AI 진행자로 읽힘(opus 둘 다 예). 같이 짚어 고친 것: 가운데 값 → 중간값(뜻까지) · 광고 조회 근거(튄 영상 약 52명에 1개로 견줌) · 3배 · 0.3% 근거(「제가 쓰는 기준」) · 18~22초 그림 빽빽함 · 작은 글씨 · 튄 영상이 흐림 | 끝의 저장할 한 장은 셋 다 「저장」의 까닭으로 짚음 — 쓸모는 서고, 볼 이유는 여전히 소재 몫(남의 숫자 반전, 우리가 잃은 것 없음). 맹검 미학 심사는 두 차례 모두 새 판 「차이 크다」 |
 | 11-03 | synkbrief | B24 「AI 유료 결제 1초 전 — 질문 셋」(한 장면 먼저 일곱째 편 · 오마주 같은분야 7Tyo1JTY2BE · 다르게 셋 · 대화 + 실제 요금 화면 + 점심 복선) — **관문 못 넘음, 올림** | 장면 심사 둘째 판 통과(멈춤 · 3) → 이해 시험 여덟 판: 이해 4 · 3 · 4(v2 · v3) → 4 · 4 · 4(v4~v9), 재미 3 · 3 · 3(v8 haiku 2), 볼 이유 일곱 번 다 이야기 · 3 · 아님 | 넘김 없음(v9 sonnet · haiku 끝까지, GPT는 21.9초 결론 뒤). 걸린 것은 「한도」가 무엇의 한도인지(셋) · 작은 표 글자. 같이 짚어 고친 것 — 결제 화면은 구글인데 근거는 챗GPT · Claude 한도 화면 섞임 · 손 가림 두 번 · 같은 요금 화면 세 번 · 약 12페이지 칸 · 폰 아래 초록 띠(추적 오류) | 올림. **v2→v9에서 먹힌 것: 실제 답 「오늘 점심 뭐 먹지 → 제육볶음」을 복선으로 끝 말과 잇자 시험관들이 처음으로 그 자리를 웃기다고 적었다.** 그래도 재미 3 · 볼 이유 3에 묶임 — 정보 줄기가 남아 있으면 콩트를 입혀도 여기까지다 |
 | 11-03 | LAB 두 채널 | E21 「-지 마」 간체(샤오훙수) · 버마어(틱톡 @synklab.mm) 판 — 소리는 한국어 그대로, 뜻 줄 · 이야기 자막만 그 나라 말 — **관문 못 넘음, 올림** | 간체 이해 4 · 3 · 4 · 재미 4 · 4 · 4, 버마어 이해 3 · 3 · 3 → 자막 키움 · 쪽지 낱말 고친 2판 sonnet 4 · 재미 4 | 간체 셋 다 끝까지 · 저장. 셋이 같이 짚은 「먹어」로 바뀌는 까닭은 영어 판과 같이 남음. 버마어 1판 sonnet 0.1~0.8 · 14.6~17.4초 넘김 → 2판 끝까지. haiku 같아 보임 둘 | 닫힘 — 재미 4가 이어지는 이야기 편은 말 없는 판으로도 옮겨 간다 |
 | 11-03 | LAB 몽골 | M27 「입을 땐 넷, 벗을 땐 하나 — 벗어요」(오마주 같은분야 HY6_V4ECnpg, 나란히 맞음 · 다르게 셋) — **관문 못 넘음, 올림(v7)** | 네 판: 이해 4 · 4 · 4 → 4 · 4 · 4 → 4 · 4 · 4 → 4 · 4 · 3, 재미 3 · 3 · 3 → 3 · 3 · 4 → 3 · 4 · 3 → 3 · 3 · 3, 볼 이유 이야기 · 4 · 아님 내내 | 답 1 다 맞음 · 저장. 넘김은 G 9.4 · 11.9초(단어 나열 구간)뿐. 걸린 것은 재미 · ⑧ haiku 같아 보임. 첫 컷 · ✕ 칸 · 눈길을 장면으로 고침(장화를 뒤집어씀 · 모자가 눈을 덮음 · 벌렁) | 닫힘 — 관문이 못 맞힌 축(M18 · M19)이라 72시간을 본다 |

diff --git a/docs/현장노트/브라우저_게시.md b/docs/현장노트/브라우저_게시.md
@@ -1901,6 +1901,12 @@ Claude·GPT의 인터넷 작업은 ego(lite)가 기본이고(네이버 블로그
 - 다시 확인: 끝난 줄에서 판정의 `pct`가 빈 배열인지.
 - 10-28 또(정직 UCC, Claude): 「pushes in about 15%」 카메라 지시문 12컷을 받기만 하는 라운드가 같은 까닭으로 두 번(30분) 빈손이었다 — 지시문 칸만 빼는 고침으로는 안 됐고 위 잎 칸 판정으로 바꿨다. 같은 때 줄 목록이 화면 가까이 9줄 남짓만 DOM에 그려 아래쪽 대사 3줄은 KEY를 아예 못 찾았다 → KEY가 없으면 줄을 담은 스크롤 상자를 위에서부터 내려 그려지게 한다(`scrollToRow`, `.tmp/contests-20261019/ucc/영상/flow/u_lib.mjs`). 끝 판정에는 「진행률 없음 세 번 + 다운로드 단추가 보임」도 더했다(`<video>`가 없는 끝난 줄).
 
+### Flow 입력창이 다른 세션이 쓴 「프레임」 모드로 남아 「프롬프트 상자에 소재 추가」 단추가 없다 — 도우미가 소재 목록 열기에서 소리 없이 멈춘다 (2026-11-03 Claude)
+- 증상: Y30 다시 만들기에서 진행컷 접수 도우미(`yuhobuilds-ep-20261103/lib.mjs` 꼴)가 몇 분째 아무것도 접수하지 않았다(접수 기록 0). 입력창 위에 「시작 ⇄ 종료」 칸이 보였다.
+- 원인: 같은 Flow 프로젝트를 다른 세션(PULSE)이 「프레임」(시작 · 끝 그림) 모드로 쓰고 나서 모드가 그대로 남았다 — 「소재」 모드가 아니면 `button[aria-label="프롬프트 상자에 소재 추가"]`가 없다. 모드 단추는 설정 메뉴(`button[aria-label="설정 트리거"]`) 안의 `span.toggle-text` 「프레임 / 소재」인데, ego 창이 최소화돼 있으면 `innerText`가 비어 글자로 찾지 못한다.
+- 고침: 접수 전에 소재 단추가 없으면 설정 메뉴를 열고 `span.toggle-text`를 **textContent**로 「소재」를 찾아 그 단추를 누른 뒤 Escape, 소재 단추가 생겼는지 보고 접수한다(`C:/Users/q1212/ego/yuhobuilds-y30c-20261103/round-04.mjs` setMode). 진행을 파일로 남기려고 `console.log`를 덮으면 ego가 「read only」로 멈추니 따로 함수를 둔다.
+- 다시 확인: 「mode switched」 뒤 여섯 판이 1분 안팎에 접수 · 생성됐다(72크레딧).
+
 ### Omni · Veo 모두 「아주 느린 옆 이동(화면 폭 3%)」을 화면 절반쯤으로 크게 하며 시작 그림에 없던 건물을 지어낸다 — 고정 카메라로 뽑고 이동은 후반 자르는 창으로 (2026-10-27 Claude)
 - 증상: 서울로 애니 시험(같은 시작 그림, Omni 1.1 Flash 8초 두 판 · Veo 3.1 Quality 8초 한 판)에서 「The camera trucks slowly to the right, about 3% of the frame width over 8 seconds」가 세 판 모두 돔이 화면 왼쪽 밖으로 나갈 만큼 움직였고, 새로 보이는 오른쪽에 고층 빌딩(Veo는 줄무늬 마천루)을 지어냈다. 「Locked-off camera」 판은 Omni 한 판이 고정을 지켰다.
 - 원인: 모델이 작은 카메라 이동 숫자를 지키지 못하고, 드러나는 자리를 지어낸다.
